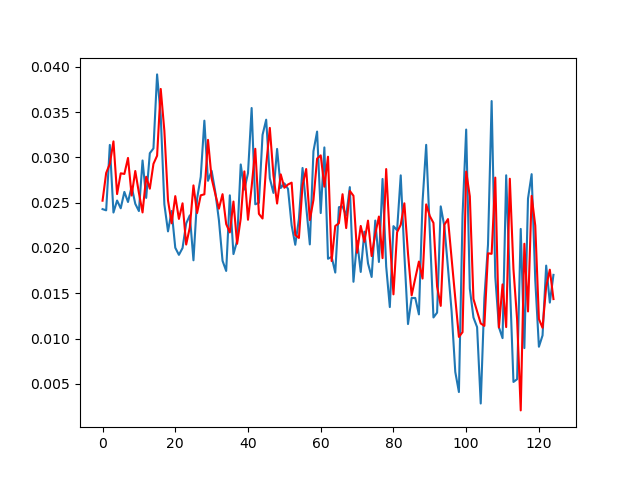
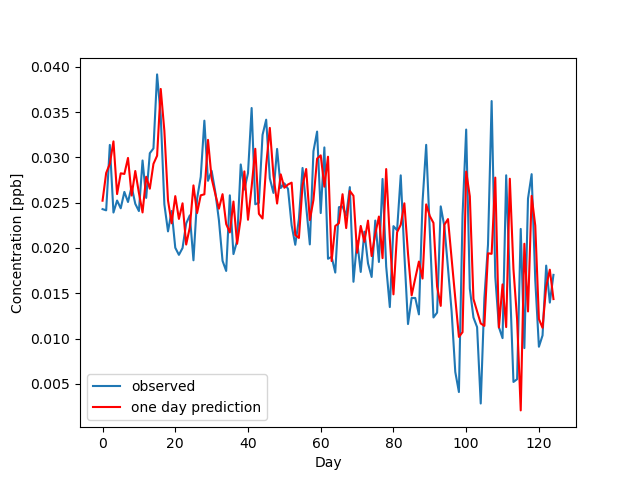
sample ARIMA one-day forecasting for 2019 O3 ppb

diff --git a/forecast.py b/forecast.py
@@ -14,7 +14,7 @@ def load_data(infile):
 	return df
 
 
-infile = '.\\data\\PM2.5_20190101_20191231.csv'
+infile = '.\\data\\O3_20190101_20191231.csv'
 o3 = load_data(infile)
 
 # 37.687526 for O3 and PM2p5
@@ -54,7 +54,7 @@ predictions_wk = list()
 predictions_dy = list()
 
 for t in range(len(test)):
-	model = ARIMA(history, order=(10,1,0))
+	model = ARIMA(history, order=(30,1,0))
 	model_fit = model.fit()
 	output = model_fit.forecast(7)
 	yhat = output[6]
@@ -69,6 +69,8 @@ print('Test MSE: %.3f' % error)
 # plot
 plt.plot(test, label='observed')
 plt.plot(predictions_dy, color='red', label='one day prediction')
-plt.plot(range(6, len(X) - size + 6), predictions_wk, ls='--', color='red', label='one week prediction')
+#plt.plot(range(6, len(X) - size + 6), predictions_wk, ls='--', color='red', label='one week prediction')
 plt.legend()
+plt.xlabel('Day')
+plt.ylabel('Concentration [ppb]')
 plt.show()
